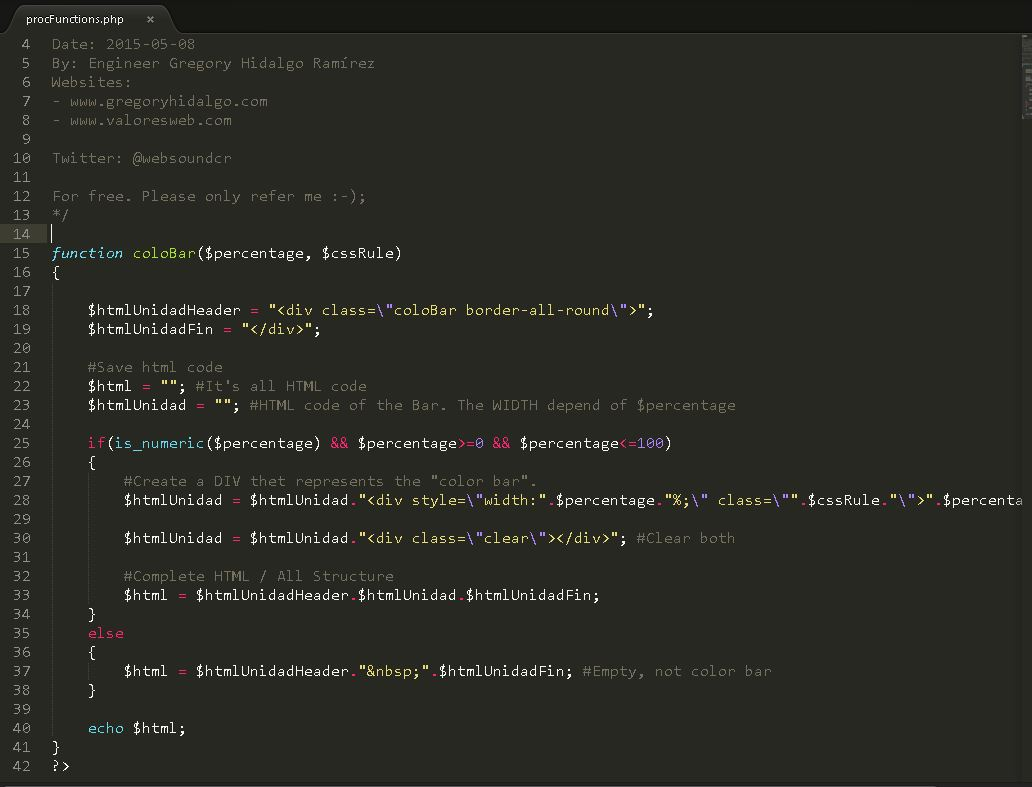
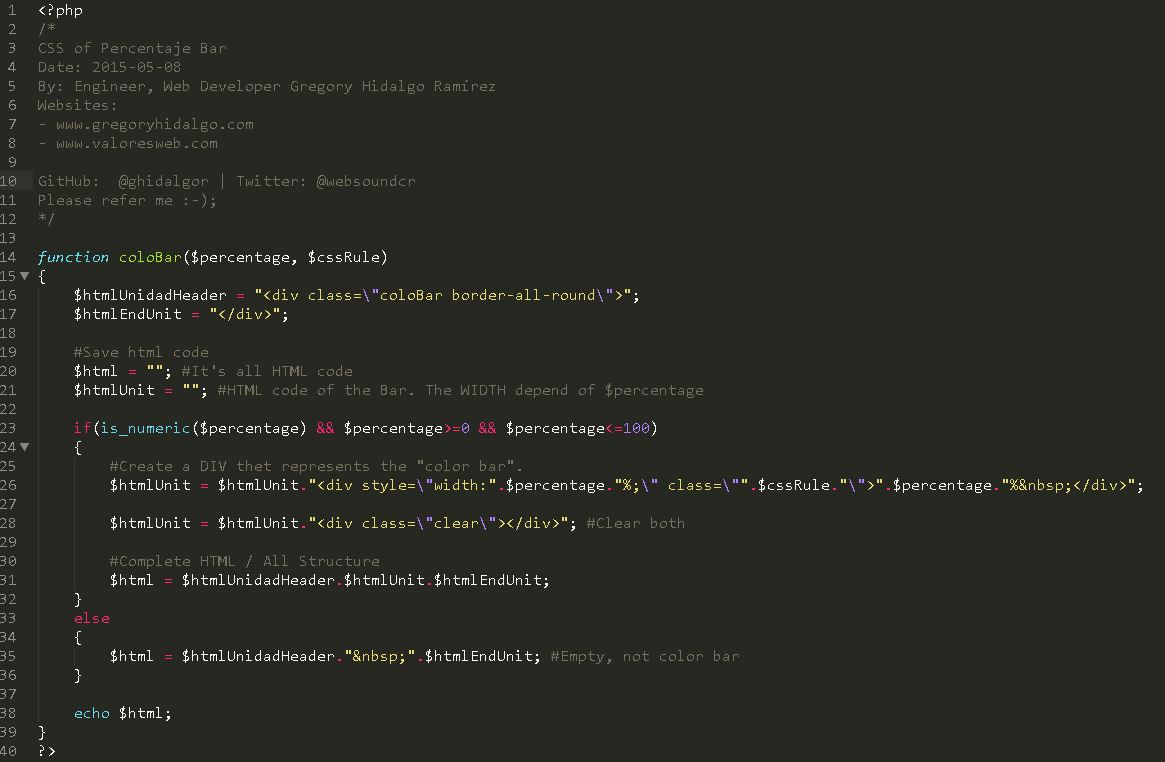
Update Readme.md and Screen Capture

diff --git a/includes/procFunctions.php b/includes/procFunctions.php
@@ -7,8 +7,7 @@ Websites:
 - www.gregoryhidalgo.com
 - www.valoresweb.com
 
-Twitter: @websoundcr
-GitHub:  @ghidalgor
+GitHub:  @ghidalgor | Twitter: @websoundcr
 Please refer me :-);
 */
 

diff --git a/README.md b/README.md
@@ -1,1 +1,36 @@
-This file is a README.md
+<h1>Simple-Percentage-Bar</h1>
+<p>It's a code to create a Percentage Bar. You need technologies such as HTML5, CSS and PHP.</p>
+<p>Sometimes we need show or compare categories. It's a good idea to use horizontal graphics bars. You only need two DIVS. The first one is a CONTAINER and the second one is a bar. It bar has a WIDTH calculating in PERCENTAGE (%).</p>
+<p>For example you can use it for compare:</p>
+
+<ul>
+	<li>Sports team. (What is the best for you? Real Madrid?, Barcelona? LDA (Costa Rica ;-) )</li>
+	<li>Sales.</li>
+	<li>Budgets</li>
+	<li>Votes -Etc..</li>
+</ul>
+
+<h2>Example</h2>
+<p>
+	<img src="https://cloud.githubusercontent.com/assets/13024574/8660513/9b79420c-296e-11e5-87c7-559170483b9c.JPG" alt="Example" target="_blank">
+</p>
+
+<h2>HTML</h2>
+<p>
+	<img src="https://cloud.githubusercontent.com/assets/13024574/8660548/d9da6dbe-296e-11e5-9ed0-e257d3d5201f.JPG" alt="HTML - DIV Container and div bar" target="_blank">
+</p>
+
+<h2>HTML and PHP Code</h2>
+<p>
+	<img src="https://cloud.githubusercontent.com/assets/13024574/8660601/254fb8a8-296f-11e5-8e11-aecc247c5550.JPG" alt="HTML and PHP Code" target="_blank">
+</p>
+
+<h2>CSS Rules</h2>
+<p>
+	<img src="https://cloud.githubusercontent.com/assets/13024574/8660650/6c7c7eb4-296f-11e5-8e0b-ac11b0b1d0d0.JPG" alt="CSS Rules" target="_blank">
+</p>
+
+<h2>PHP Functions</h2>
+<p>
+	<img src="https://cloud.githubusercontent.com/assets/13024574/8660731/f91065d4-296f-11e5-9ee8-2da58a40d642.JPG" alt="PHP Functions" target="_blank">
+</p>
